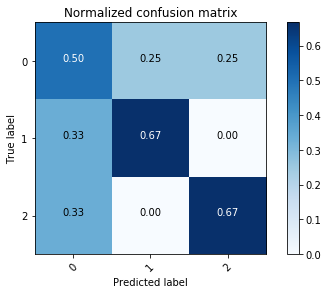
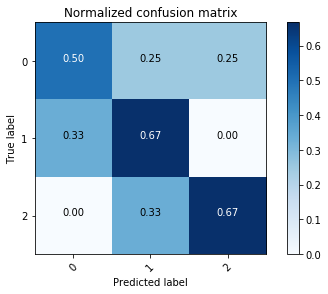
minor clean up

Changed region(s): [[0.0915, 0.5816, 0.5793, 0.8878]]

diff --git a/_posts/2017-08-31-evaluation.md b/_posts/2017-08-31-evaluation.md
@@ -30,6 +30,7 @@ summary: Các phương pháp đánh giá hiệu năng của một mô hình phâ
 
 _Một bài viết nhanh được thực hiện khi tôi đang bế tắc trong nghiên cứu. Bạn yên tâm, chuyện này xảy ra thường xuyên. Mọi chuyện rồi sẽ ổn thôi._
 
+Bạn có thể download toàn bộ source code dưới dạng Jupyter Notebook [tại đây](https://github.com/tiepvupsu/tiepvupsu.github.io/blob/master/assets/33_evaluation/python/Evaluation%20methods.ipynb).
 <a name="-gioi-thieu"></a>
 
 ## 1. Giới thiệu 
@@ -37,7 +38,7 @@ Khi xây dựng một mô hình Machine Learning, chúng ta cần một phép đ
 
 Hiệu năng của một mô hình thường được đánh giá dựa trên tập dữ liệu kiểm thử (test data). Cụ thể, giả sử đầu ra của mô hình khi đầu vào là tập kiểm thử được mô tả bởi vector `y_pred` - là vector dự đoán đầu ra với mỗi phần tử là class được dự đoán của một điểm dữ liệu trong tập kiểm thử. Ta cần so sánh giữa vector dự đoán `y_pred` này với vector class _thật_ của dữ liệu, được mô tả bởi vector `y_true`. 
 
-Ví dụ với bài toán có 3 lớp dữ liệu được gán nhãn là `0, 1, 2`. Trong bài toán thực tế, các class có thể có nhãn bất kỳ, không nhất thiết là số, và không nhất thiết bắt đầu từ `0`. Chúng ta hãy tạm giả sử các class được đánh số từ `0` đến `C-1` trong trường hợp có `C` lớp dữ liệu.  Có 10 điểm dữ liệu trong tập kiểm thử với các nhãn thực sự được mô tả bởi `y_true = [0, 0, 0, 0, 1, 1, 1, 2, 2, 2]`. Giả sử bộ phân lớp chúng ta đang cần đánh giá dự đoán nhãn cho các điểm này là `y_pred = [0, 1, 0, 2, 1, 1, 0, 2, 0, 2]`. 
+Ví dụ với bài toán có 3 lớp dữ liệu được gán nhãn là `0, 1, 2`. Trong bài toán thực tế, các class có thể có nhãn bất kỳ, không nhất thiết là số, và không nhất thiết bắt đầu từ `0`. Chúng ta hãy tạm giả sử các class được đánh số từ `0` đến `C-1` trong trường hợp có `C` lớp dữ liệu.  Có 10 điểm dữ liệu trong tập kiểm thử với các nhãn thực sự được mô tả bởi `y_true = [0, 0, 0, 0, 1, 1, 1, 2, 2, 2]`. Giả sử bộ phân lớp chúng ta đang cần đánh giá dự đoán nhãn cho các điểm này là `y_pred = [0, 1, 0, 2, 1, 1, 0, 2, 1, 2]`. 
 
 Có rất nhiều cách đánh giá một mô hình phân lớp. Tuỳ vào những bài toán khác nhau mà chúng ta sử dụng các phương pháp khác nhau. Các phương pháp thường được sử dụng là: accuracy score, confusion matrix, ROC curve, Area Under the Curve, Precision and Recall, F1 score, Top R error, etc. 
 
@@ -60,7 +61,7 @@ def acc(y_true, y_pred):
     return float(correct)/y_true.shape[0]
 
 y_true = np.array([0, 0, 0, 0, 1, 1, 1, 2, 2, 2])
-y_pred = np.array([0, 1, 0, 2, 1, 1, 0, 2, 0, 2])
+y_pred = np.array([0, 1, 0, 2, 1, 1, 0, 2, 1, 2])
 print('accuracy = ', acc(y_true, y_pred))
 ```
 
@@ -95,7 +96,7 @@ Về cơ bản, confusion matrix thể hiện có bao nhiêu điểm dữ liệu
 -----------|-----------|-----------|-----------|---
  True: 1   |     1     |     2     |     0     | 3 
 -----------|-----------|-----------|-----------|---
- True: 2   |     1     |     0     |     2     | 3 
+ True: 2   |     0     |     1     |     2     | 3 
 -----------|-----------|-----------|-----------|---
 
 ```
@@ -127,7 +128,7 @@ print('\nAccuracy:', np.diagonal(cnf_matrix).sum()/cnf_matrix.sum())
     Confusion matrix:
     [[ 2.  1.  1.]
      [ 1.  2.  0.]
-     [ 1.  0.  2.]]
+     [ 0.  1.  2.]]
     
     Accuracy: 0.6
 
@@ -141,12 +142,12 @@ print('\nConfusion matrix (with normalizatrion:)')
 print(normalized_confusion_matrix)
 ```
 
-    
+```
     Confusion matrix (with normalizatrion:)
     [[ 0.5         0.25        0.25      ]
      [ 0.33333333  0.66666667  0.        ]
-     [ 0.33333333  0.          0.66666667]]
-
+     [ 0.          0.33333333  0.66666667]]
+```
 
 Và cách tính [sử dụng thư viện](http://scikit-learn.org/stable/modules/generated/sklearn.metrics.confusion_matrix.html):
 
@@ -161,7 +162,7 @@ print(cnf_matrix)
     Confusion matrix:
     [[2 1 1]
      [1 2 0]
-     [1 0 2]]
+     [0 1 2]]
 
 
 Confusion matrix thường được minh hoạ bằng màu sắc để có cái nhìn rõ ràng hơn. Đoạn code dưới đây giúp hiển thị confusion matrix ở cả hai dạng (Nguồn: [Confusion matrix¶](http://scikit-learn.org/stable/auto_examples/model_selection/plot_confusion_matrix.html)): 
@@ -201,7 +202,6 @@ def plot_confusion_matrix(cm, classes,
 
 # Plot non-normalized confusion matrix
 class_names = [0, 1, 2]
-cnf_matrix = cm
 plt.figure()
 plot_confusion_matrix(cnf_matrix, classes=class_names,
                       title='Confusion matrix, without normalization')
